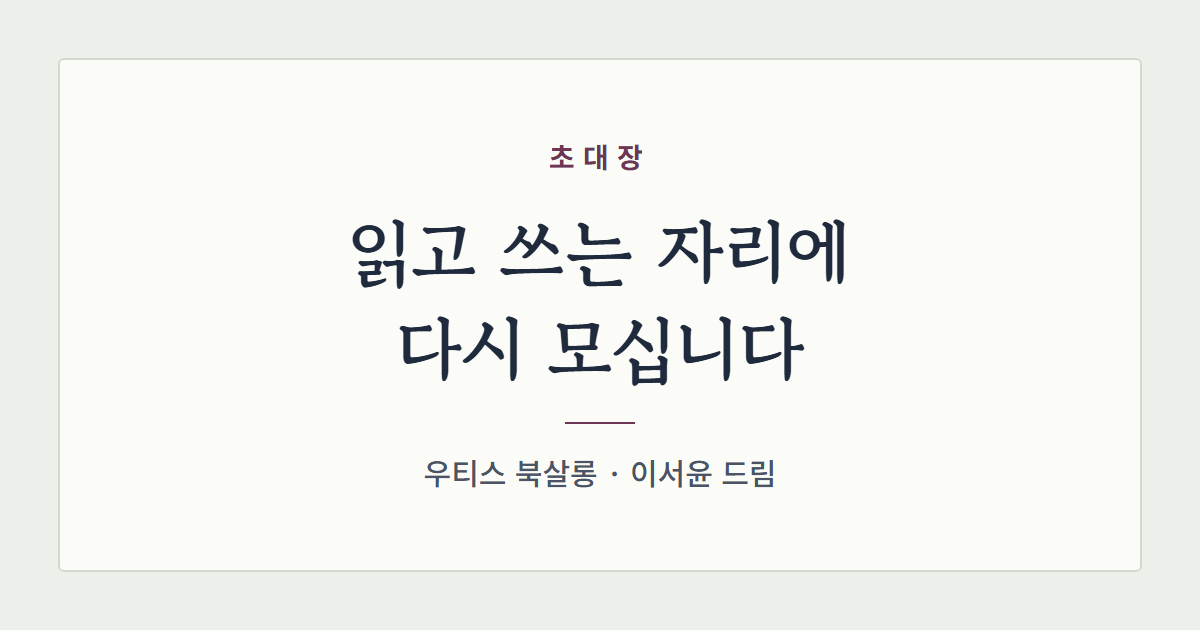
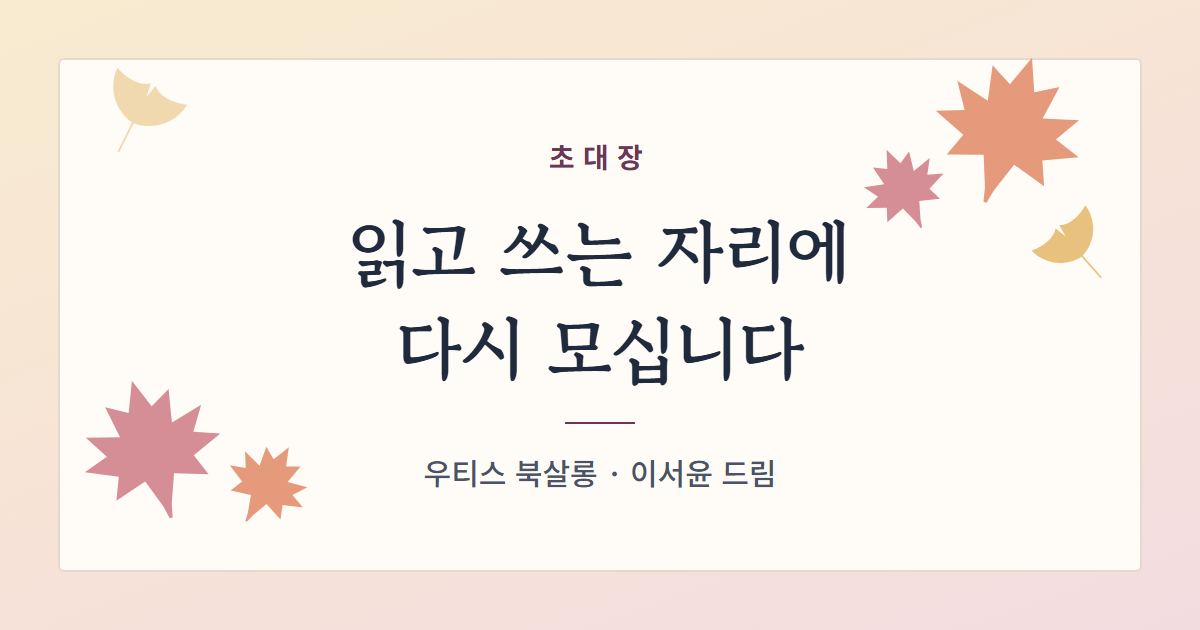
초대장에 단풍 밑그림과 파스텔 바탕

diff --git a/invite/index.html b/invite/index.html
@@ -16,27 +16,37 @@
 <style>
 /* 한 장짜리 초대 카드: 폰 화면 폭에 맞춘 세로 편지 한 통 */
 :root {
-  --paper: #EDF0EA;
-  --card: #FBFCF8;
+  --paper: #F7E4D6;
+  --paper2: #F3DCE0;
+  --paper3: #F8EBCF;
+  --card: #FFFCF8;
   --ink: #1F2A3D;
   --ink-soft: #4A5466;
   --plum: #6E3655;
-  --line: #D3D9CF;
+  --line: #EAD7CB;
+  --leaf1: #E59A7C; --leaf2: #E8C17E; --leaf3: #D58E96;
   --serif: "Gowun Batang", "Nanum Myeongjo", "Batang", serif;
   --sans: "Noto Sans KR", "Malgun Gothic", "Apple SD Gothic Neo", sans-serif;
 }
 @media (prefers-color-scheme: dark) {
   :root:not([data-theme="light"]) {
-    --paper: #161B22; --card: #1E2530; --ink: #E9ECE6; --ink-soft: #B5BCC6;
+    --paper: #2A2024; --paper2: #2B1F26; --paper3: #2A231C;
+    --card: #1E2530; --ink: #E9ECE6; --ink-soft: #B5BCC6;
     --plum: #D9A3C0; --line: #333D4B; color-scheme: dark;
+    --leaf1: #C8683F; --leaf2: #C99A45; --leaf3: #A65050;
   }
 }
 :root[data-theme="dark"] {
-  --paper: #161B22; --card: #1E2530; --ink: #E9ECE6; --ink-soft: #B5BCC6;
+  --paper: #2A2024; --paper2: #2B1F26; --paper3: #2A231C;
+  --card: #1E2530; --ink: #E9ECE6; --ink-soft: #B5BCC6;
   --plum: #D9A3C0; --line: #333D4B; color-scheme: dark;
+  --leaf1: #C8683F; --leaf2: #C99A45; --leaf3: #A65050;
 }
 body {
-  background: var(--paper); color: var(--ink);
+  background: var(--paper);
+  background-image: linear-gradient(160deg, var(--paper3) 0%, var(--paper) 45%, var(--paper2) 100%);
+  background-attachment: fixed;
+  color: var(--ink);
   font-family: var(--sans); font-size: 16px; line-height: 1.8;
   padding-block: 32px 48px;
   padding-left: max(16px, env(safe-area-inset-left, 0px));
@@ -46,9 +56,20 @@ body {
 .letter {
   max-width: 540px; margin: 0 auto;
   background: var(--card); border: 1px solid var(--line); border-radius: 4px;
-  padding: 44px 28px 36px;
+  box-shadow: 0 12px 40px rgba(150, 90, 70, .12);
+  padding: 96px 28px 120px;
   display: flex; flex-direction: column; gap: 36px;
+  position: relative; overflow: hidden;
 }
+.letter > *:not(.leaves) { position: relative; z-index: 1; }
+.leaves { position: absolute; inset: 0; pointer-events: none; }
+.leaves svg { position: absolute; }
+.leaves .top { top: 0; right: 0; width: 260px; height: 130px; }
+.leaves .left { top: 8px; left: 6px; width: 90px; height: 80px; }
+.leaves .bottom { bottom: 0; left: 0; width: 280px; height: 130px; }
+.leaves .br { bottom: 10px; right: 10px; width: 80px; height: 80px; }
+.l1 { fill: var(--leaf1); } .l2 { fill: var(--leaf2); } .l3 { fill: var(--leaf3); }
+.soft { opacity: .55; }
 .head { display: flex; flex-direction: column; gap: 14px; text-align: center; }
 .eyebrow { font-size: 13px; letter-spacing: .18em; color: var(--plum); font-weight: 700; }
 h1 {
@@ -86,11 +107,40 @@ dd { margin: 0; color: var(--ink-soft); }
 }
 .code { color: var(--ink); letter-spacing: .08em; font-variant-numeric: tabular-nums; }
 .apply:focus-visible { outline: 2px solid var(--ink); outline-offset: 3px; }
-@media (max-width: 380px) { .letter { padding: 36px 20px 30px; } h1 { font-size: 26px; } }
+@media (max-width: 380px) {
+  .letter { padding: 84px 20px 110px; } h1 { font-size: 26px; }
+  .leaves .top { width: 210px; height: 105px; } .leaves .bottom { width: 230px; height: 107px; }
+}
 </style>
 
 </head><body>
 <main class="letter">
+  <div class="leaves" aria-hidden="true">
+    <svg width="0" height="0" style="position:absolute">
+      <defs>
+        <path id="maple" d="M50 4 L58 24 L72 16 L68 38 L90 32 L80 48 L97 54 L76 63 L82 78 L60 71 L53 90 L51 99 L49 99 L47 90 L40 71 L18 78 L24 63 L3 54 L20 48 L10 32 L32 38 L28 16 L42 24 Z"/>
+        <path id="ginkgo" d="M50 98 L49 62 C30 60 8 44 6 16 C22 22 38 22 47 14 L50 30 L53 14 C62 22 78 22 94 16 C92 44 70 60 51 62 L52 98 Z"/>
+      </defs>
+    </svg>
+    <svg class="top" viewBox="0 0 260 130">
+      <use href="#maple" class="l1" transform="translate(178 6) rotate(18 50 50) scale(.72)"/>
+      <use href="#maple" class="l3" transform="translate(130 46) rotate(-24 50 50) scale(.42)"/>
+      <use href="#ginkgo" class="l2" transform="translate(214 70) rotate(-40 50 50) scale(.38)"/>
+      <use href="#maple" class="l2 soft" transform="translate(96 4) rotate(40 50 50) scale(.3)"/>
+    </svg>
+    <svg class="left" viewBox="0 0 90 80">
+      <use href="#ginkgo" class="l2 soft" transform="translate(10 8) rotate(28 50 50) scale(.5)"/>
+    </svg>
+    <svg class="bottom" viewBox="0 0 280 130">
+      <use href="#maple" class="l3" transform="translate(8 56) rotate(-16 50 50) scale(.66)"/>
+      <use href="#maple" class="l1" transform="translate(82 74) rotate(30 50 50) scale(.46)"/>
+      <use href="#ginkgo" class="l2" transform="translate(140 84) rotate(22 50 50) scale(.36)"/>
+      <use href="#maple" class="l2 soft" transform="translate(190 96) rotate(-38 50 50) scale(.26)"/>
+    </svg>
+    <svg class="br" viewBox="0 0 80 80">
+      <use href="#maple" class="l1 soft" transform="translate(20 20) rotate(12 50 50) scale(.45)"/>
+    </svg>
+  </div>
   <header class="head">
     <div class="eyebrow">초대장</div>
     <h1>읽고 쓰는 자리에<br>다시 모십니다</h1>
